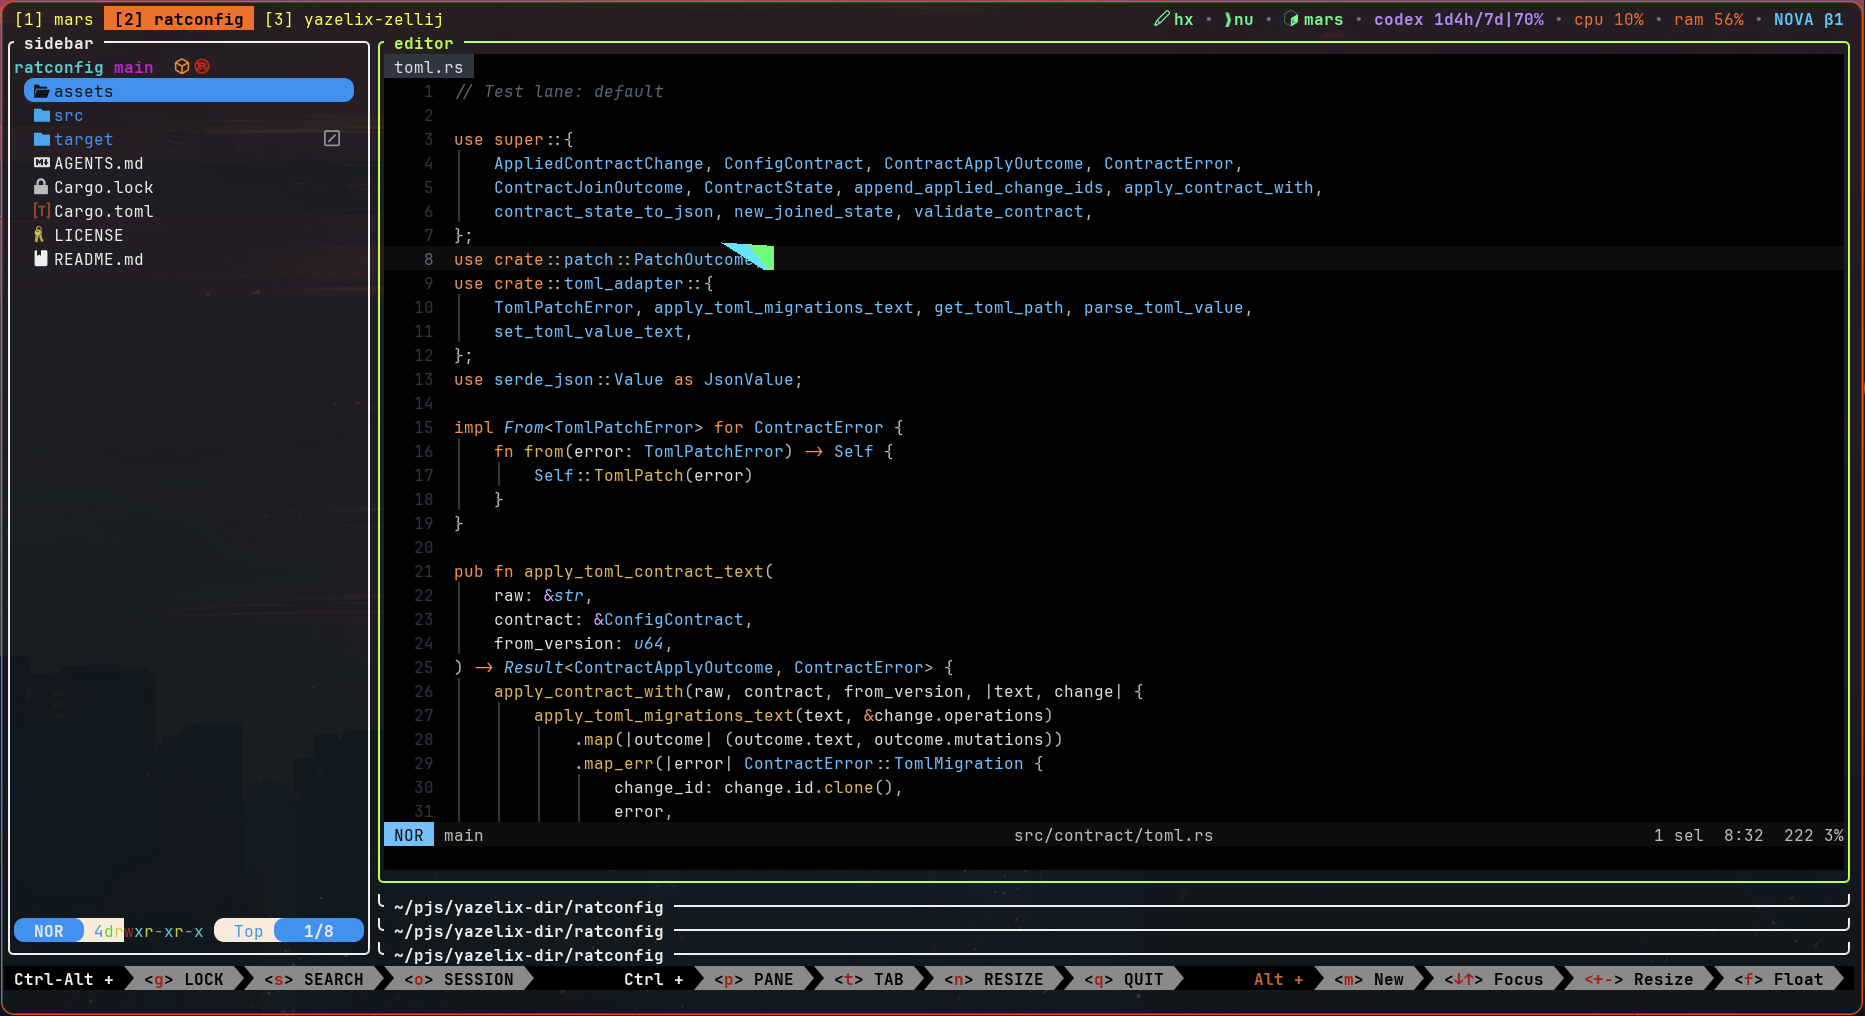
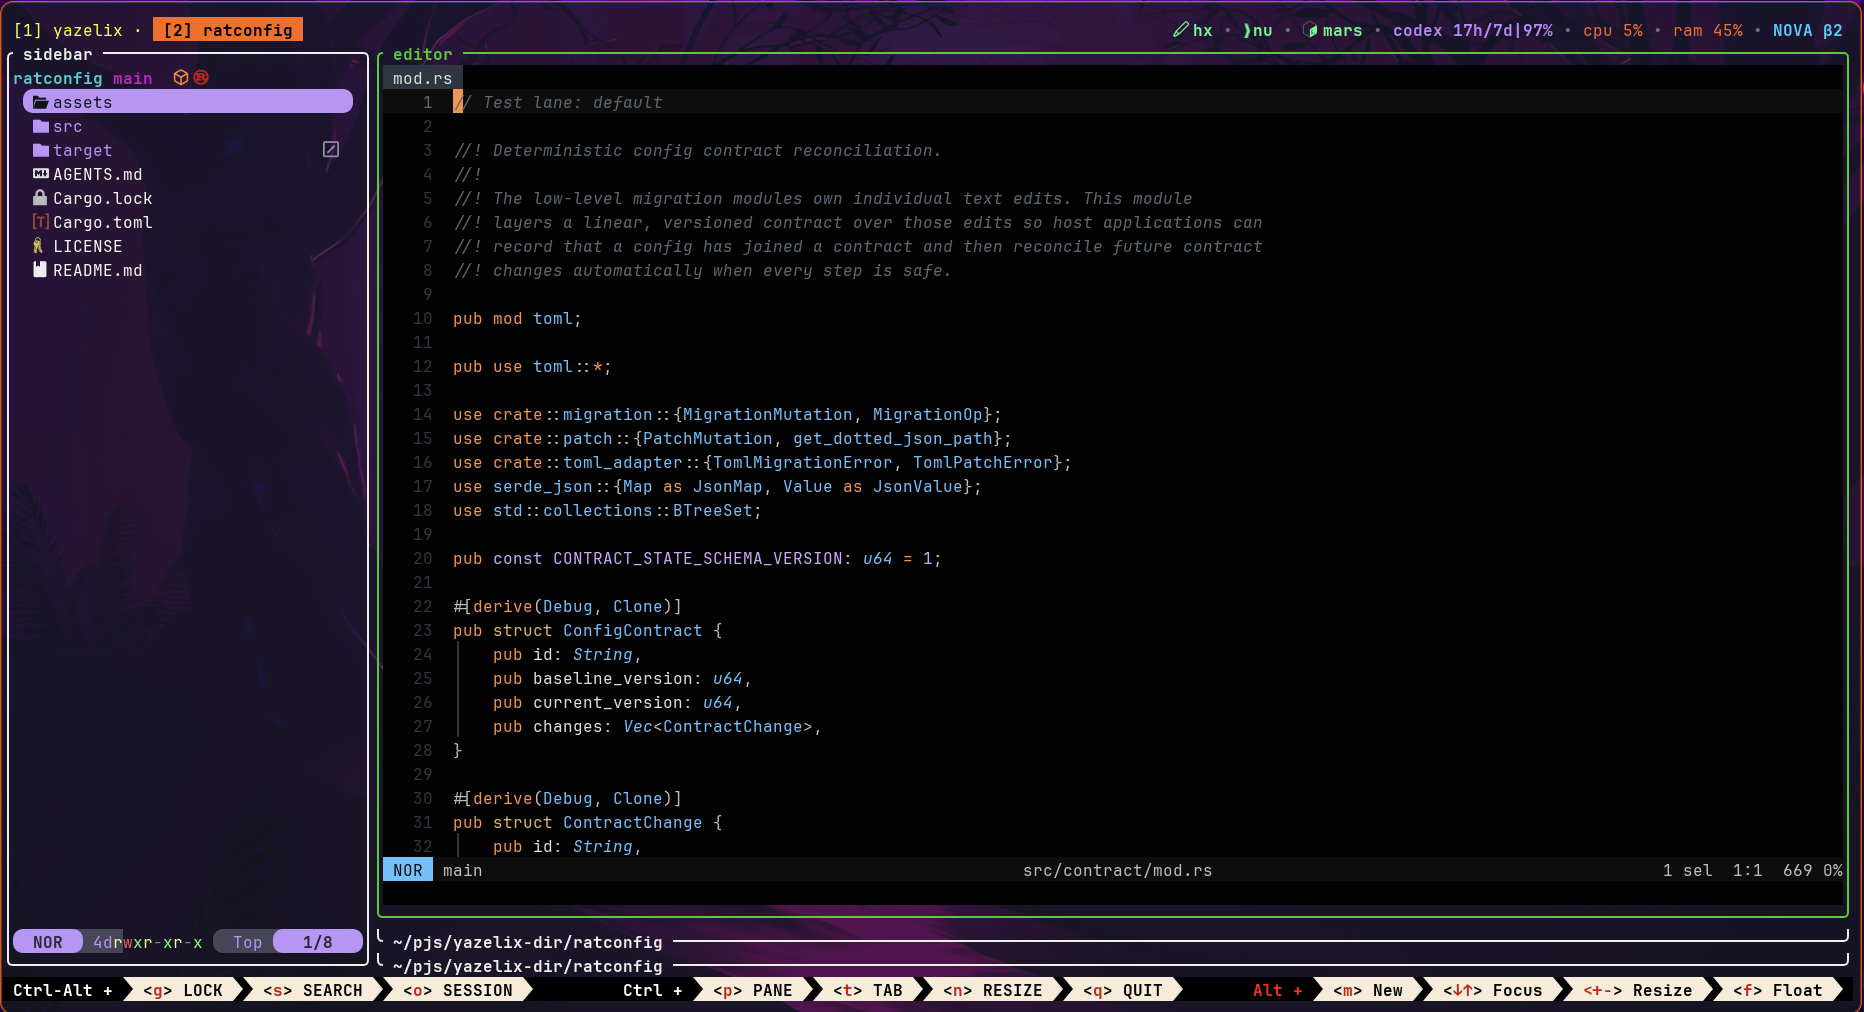
Refresh Nova documentation and workspace preview

Changed region(s): [[0.0, 0.0, 1.0, 1.0], [0.5601, 0.7964, 0.6534, 0.8271]]

diff --git a/README.md b/README.md
@@ -4,18 +4,12 @@
   <img src="assets/logo.png" alt="Yazelix logo" width="200"/>
 </div>
 
-**What is the best possible terminal experience?**
-
-Yazelix tries to answer that question by bringing the terminal, multiplexer,
-file manager, editor, shell, Git tools, configuration, and an optional AI agent
-together as one coherent workspace
-
-Yazelix ships as a Nix flake with an optional Home Manager module
-
-`yzx launch` opens Mars, while `yzx enter` starts Yazelix in the
-current terminal (yazelix works on any terminal!). Both provide the same Yazi-first workspace and compact top
-bar. The repo keeps one launcher, one config root, one packaged layout, and
-focused checks for its contracts
+Yazelix Nova is a Nix-packaged terminal workspace built around Mars, the
+Yazelix Zellij fork, Yazi, Nushell, Git tools, and an optional coding agent. It
+uses managed Helix by default (`editor.command` can select an installed terminal
+editor). `yzx launch` opens the desktop workspace through Mars, while
+`yzx enter` runs the same Yazi-first workspace in a capable terminal or over SSH.
+Packaged defaults make the first run configuration-free.
 
 ## Preview
 
@@ -25,15 +19,17 @@ focused checks for its contracts
 
 Yazelix requires Nix with flakes enabled. `launch` opens the packaged Mars window
 in a graphical session, while `enter` starts the same workspace in the current
-terminal or over SSH
+terminal or over SSH.
 
-Yazelix uses packaged defaults, so no configuration is required before the
-first launch
+Nova remains in the v1 beta series. The `stable` branch is the recommended
+install and update channel, not the final v1 release. It advances from a checked
+and dogfooded `main` revision at most once per week, with earlier promotions
+reserved for urgent fixes. Use `main` for the development channel or an
+immutable `nova-v*` tag for an exact release.
 
-The `stable` branch is the recommended install and update channel. It advances
-from a checked and dogfooded `main` revision at most once per week, with earlier
-promotions reserved for urgent fixes. Use `main` for the development channel or
-an immutable `nova-v*` tag for an exact release
+Linux is the dogfooded platform. CI builds all packages and a Home Manager
+activation on `aarch64-darwin`, while interactive macOS use and the Mars GUI
+remain unverified.
 
 ### Try without installing
 
@@ -57,30 +53,30 @@ yzx launch
 
 ### Install with Home Manager
 
-Use the [Home Manager module](docs/installation.md#home-manager) for a declarative install
-
-From a local checkout, use:
-
-```sh
-nix run .#yazelix -- launch
-nix run .#runtime -- enter
-```
+Use the [Home Manager module](docs/installation.md#home-manager) for a
+declarative install.
 
 ### Moving from Yazelix Classic
 
-Use Classic v17.12 once to prepare its config for the Nova generation, then
-install Yazelix from the canonical repository
+Classic v17.12 translates mutable Classic `settings.jsonc` or `config.toml`
+files into Nova configuration. It does not rewrite Home Manager declarations
+or Home Manager-owned files. Run the bridge once when you need to preserve
+mutable Classic settings:
 
 ```sh
 nix run github:luccahuguet/yazelix/v17.12#yazelix -- launch
 ```
 
+If your Classic settings match packaged defaults, start with Nova's packaged
+defaults and move straight to `stable`. Home Manager users must replace
+Classic-only options with Nova's narrow module surface before switching.
+
 The Nova cutover intentionally replaces the old `main` history. Existing Git
 clones should be replaced with a fresh clone rather than updated with an
 ordinary pull. Classic remains available at the frozen `classic` branch, while
-the immutable `v17.12` tag remains the migration and rollback bridge
+the immutable `v17.12` tag remains the migration and rollback bridge.
 
-## Learn, help, and recover
+## First five minutes
 
 Start the guided tour after launching Yazelix:
 
@@ -90,9 +86,11 @@ yzx tutor begin
 
 `yzx help` lists every command. `yzx doctor` checks the owned runtime setup
 without opening Mars or Zellij. Inside Yazelix, press `Alt Shift M` to open the
-command palette, which includes both help and tutor entries
+command palette, which includes both help and tutor entries.
 
-Press `Alt Shift K` to open Ratconfig.
+### Ratconfig
+
+Press `Alt Shift K` to open Ratconfig:
 
 | Key | Action |
 | --- | --- |
@@ -103,13 +101,15 @@ Press `Alt Shift K` to open Ratconfig.
 | `e`, `Enter`, `Space` | Run the selected row's contextual action |
 | `u`, `q` | Reset the selected setting or quit |
 
-The footer lists the selected row's controls
+The footer lists the selected row's controls.
+
+### Workspace keys
 
 Yazelix carries Helix/Vim's `h/j/k/l` motion model through the workspace:
 
 | Layer | `h` | `j` | `k` | `l` |
 | --- | --- | --- | --- | --- |
-| Helix normal mode | Move cursor left | Move cursor down | Move cursor up | Move cursor right |
+| Helix/Vim normal mode | Move cursor left | Move cursor down | Move cursor up | Move cursor right |
 | `Alt` | Focus left or previous tab | Focus down | Focus up | Focus right or next tab |
 | `Ctrl Alt` | Move tab left | Move pane down | Move pane up | Move tab right |
 
@@ -125,55 +125,24 @@ Yazi and the menu use their initials:
 - `Alt Shift Y` toggles the full Yazi popup.
 - `Alt Shift M` toggles the command menu.
 
-`Alt Shift H` toggles the sidebar. Press a popup's own key again to close Git or
-the menu. Ratconfig, the agent, and the full Yazi popup hide instead, preserving
-their in-memory state while their popup processes remain alive. The Yazi popup
-starts at the tab's canonical workspace root, keeps navigation independent from
-the tiled sidebar, and restarts on reveal when that canonical root has changed.
-Git and the agent also use the canonical root even when the focused pane has
-navigated elsewhere.
-The agent pane uses `agent` until its provider publishes a terminal title.
-While that title contains a spinner, its tab gains a compact busy marker
-without changing the tab's native name
+Press a popup's key again to close or hide it. Other useful bindings are:
 
-## Keybindings
+| Scope | Key | Action |
+| --- | --- | --- |
+| Workspace | `Ctrl q` | Quit the Yazelix session |
+| Workspace | `Alt m` | Open a new pane |
+| Workspace | `Alt Shift F` | Toggle the focused pane fullscreen |
+| Workspace | `Ctrl y` | Toggle focus between the editor and Yazi sidebar |
+| Workspace | `Alt 1-9` | Go directly to tab 1-9 |
+| Editor | `Alt r` | Reveal the current editor file in Yazi |
+| Yazi | `Alt z` | Retarget the tab workspace with zoxide |
+
+Managed Helix supplies the editor binding. Terminal editors can bind the same
+`yzx reveal` command; see [Configuration](docs/configuration.md#editor-and-file-opens)
+for Neovim and terminal Emacs examples.
 
 Ratconfig's Keys tab is the complete packaged reference, and
-`defaults/zellij/config.kdl` remains the runtime source
-
-### Zellij workspace
-
-| Key | Action |
-| --- | --- |
-| `Ctrl Alt g` | Toggle locked mode |
-| `Ctrl Alt o` | Open session mode |
-| `Ctrl q` | Quit Yazelix session |
-| `Ctrl p` | Toggle pane mode |
-| `Ctrl t` | Toggle tab mode |
-| `Ctrl n` | Toggle resize mode |
-| `Alt m` | Open a new pane |
-| `Alt Shift F` | Toggle the focused pane fullscreen |
-| `Alt Shift Y` | Hide or show the full Yazi popup |
-| `Ctrl y` | Toggle focus between the editor and Yazi sidebar |
-| `Alt 1-9` | Go directly to tab 1-9 |
-
-Move mode is unbound. `keybindings.sidebar` and `keybindings.sidebar_focus`
-remap sidebar visibility and editor/sidebar focus. Managed popup triggers use
-`keybindings.config`, `keybindings.agent`, `keybindings.git`, and
-`keybindings.menu`. The packaged Yazi popup remains fixed at `Alt Shift Y`.
-Raw Zellij keymaps stay outside the managed sidecar
-
-### Helix
-
-| Key | Action |
-| --- | --- |
-| `Alt r` | Reveal the current editor file in Yazi |
-
-### Yazi
-
-| Key | Action |
-| --- | --- |
-| `Alt z` | Retarget the tab workspace with zoxide |
+`defaults/zellij/config.kdl` remains the runtime source.
 
 ## Commands
 
@@ -194,56 +163,42 @@ Raw Zellij keymaps stay outside the managed sidecar
 | `yzx screen [style]` | Show a terminal welcome screen |
 | `yzx reveal <target>` | Reveal a file or directory in the managed Yazi sidebar |
 
-Status JSON contains numeric `schema_version = 1`, plus `name`, `version`,
-`package`, `config_home`, `state_dir`, `shell`, `editor_command`, `editor`,
-`agent_command`, and `inside_zellij`. The sponsor URL remains in `yzx help`
-without a public `sponsor` command. Package identity is `full`, `no-helix`, or
-`runtime`
-
-The top-right Zellij corner shows the compact release line derived from the
-same version: `NOVA DEV` in development, `NOVA βN` during the v1 beta line,
-and `NOVA 1.0` for the stable release
-
-Screen styles are `static`, `logo`, `boids`, `boids_predator`,
-`boids_schools`, `mandelbrot`, `game_of_life_gliders`,
-`game_of_life_oscillators`, `game_of_life_bloom`, and `random`
-
-Tutor lessons are `workspace`, `discovery`, `troubleshooting`, and
-`tool_tutors`. `yzx tutor hx` and `yzx tutor nu` print the native tool tutor
-commands; packages without managed Helix direct the editor lesson back to the
-host editor
-
-
 ## Packages and platforms
 
 The default package includes Mars and managed Helix, and opens the full
 graphical workspace with `yzx launch`. `yazelix-no-helix` keeps Mars and the
-workspace while delegating editing to an installed host editor. The fixed
+workspace while delegating editing to an installed terminal editor. The fixed
 `runtime` package keeps the same `yzx` command, managed tools, and configuration
-without Mars or desktop assets
+without Mars or desktop assets.
 
 See [Installation and packages](docs/installation.md) for package variants,
-platform support, SSH use, measured sizes, Home Manager, and updates
+platform support, SSH use, measured sizes, Home Manager, and updates.
 
 ## Configuration
 
 `yzx config` opens Ratconfig over the managed tree at
 `~/.config/yazelix/`. Yazelix inherits packaged defaults and persists only
-explicit overrides. Core contains the current focused inventory plus explicit
-or invalid configured values; All contains every field supplied by the selected
-tab's current inventory
+explicit overrides. Core shows the settings most users need. All includes the
+complete inventory.
 
 See [Configuration](docs/configuration.md) for settings, popups, native files,
-Yazi plugins, cursor ownership, and editor behavior
+Yazi plugins, cursor ownership, and editor behavior.
 
 ## Development
 
-See [Development](docs/development.md) for CI, local checks, runtime input
-overrides, and the LOC scorecard. Lower-level launch, config, editor, shell, and
-popup contracts live in [Runtime Notes](docs/runtime-notes.md)
+From a local checkout, use:
+
+```sh
+nix run .#yazelix -- launch
+nix run .#runtime -- enter
+```
+
+See [Development](docs/development.md) for CI and local checks,
+[Architecture](ARCHITECTURE.md) for ownership boundaries, and
+[Runtime Notes](docs/runtime-notes.md) for launch and integration contracts.
 
 ## LOC Scorecard
 
-Yazelix owns **19,775 lines** of tracked text project files. The
+Yazelix owns **19,746 lines** of tracked text project files. The
 [reproducible scorecard](docs/development.md#loc-scorecard) excludes Beads,
-lockfiles, and binary assets
+lockfiles, and binary assets.

diff --git a/docs/configuration.md b/docs/configuration.md
@@ -62,8 +62,8 @@ incompatible quota periods
 
 `editor.command` accepts one executable name or path, not a shell command with
 arguments. In packages that include managed Helix, `hx` and `yzx-hx` select it.
-The no-Helix package reports those managed names as unavailable. Other editors
-such as `nvim`, or an absolute host Helix path, skip the managed bridge.
+The no-Helix package reports those managed names as unavailable. Other terminal
+editors such as `nvim`, or an absolute host Helix path, skip the managed bridge.
 Config native-file actions and terminal Git clients run through `yzx-editor`,
 which resolves the current `editor.command` for each edit
 
@@ -280,9 +280,8 @@ live via Zellij's watcher, while some still need a new session
 Managed Yazi opens files through `yzx-open`. With the default
 `editor.command = "yzx-hx"`, `yzx-open` reuses a live Helix bridge in the same
 Zellij tab or opens packaged Helix in the managed `editor` pane when the
-selected package includes it. The no-Helix package requires another installed
-editor command. Typing `hx` inside a managed-Helix package invokes the same
-wrapper
+selected package includes it. The no-Helix package requires another terminal
+editor command. In a managed-Helix package, typing `hx` invokes the same wrapper
 
 Git editing stays in the client terminal. Managed LazyGit overlays only its
 file-edit commands and keeps user configuration, while it and other terminal
@@ -301,6 +300,23 @@ vim.keymap.set("n", "<M-r>", function()
   if path ~= "" then vim.fn.jobstart({ "yzx", "reveal", path }) end
 end, { desc = "Reveal buffer in Yazelix sidebar" })
 ```
+
+Terminal Emacs users can bind the same command:
+
+```elisp
+(defun yazelix-reveal-buffer ()
+  "Reveal the current buffer in the Yazelix sidebar."
+  (interactive)
+  (if buffer-file-name
+      (start-process "yzx-reveal" nil "yzx" "reveal" buffer-file-name)
+    (user-error "Current buffer does not visit a file")))
+
+(global-set-key (kbd "M-r") #'yazelix-reveal-buffer)
+```
+
+These bindings expect the editor process to inherit the managed Yazelix
+session environment. The Emacs example replaces the default `M-r` binding.
+Choose another key to retain `move-to-window-line-top-bottom`.
 
 `Alt z` opens a zoxide picker in Yazi, moves to the selected directory, and
 explicitly retargets the tab workspace and managed editor through `yzx-open`.

diff --git a/docs/development.md b/docs/development.md
@@ -90,7 +90,7 @@ git ls-files | grep -Ev '^\.beads/|\.lock$|^assets/' | xargs wc -l
 | --- | ---: |
 | Ignore (`.gitignore`) | 19 |
 | License | 201 |
-| Markdown | 2212 |
+| Markdown | 2183 |
 | Nix | 1265 |
 | Shell | 84 |
 | YAML | 413 |
@@ -100,4 +100,4 @@ git ls-files | grep -Ev '^\.beads/|\.lock$|^assets/' | xargs wc -l
 | Lua | 253 |
 | Rust | 14798 |
 | Text | 41 |
-| Total | 19775 |
+| Total | 19746 |